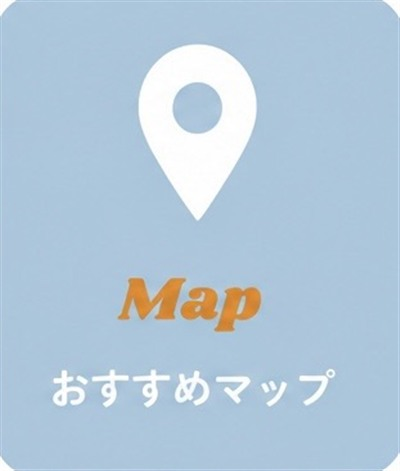
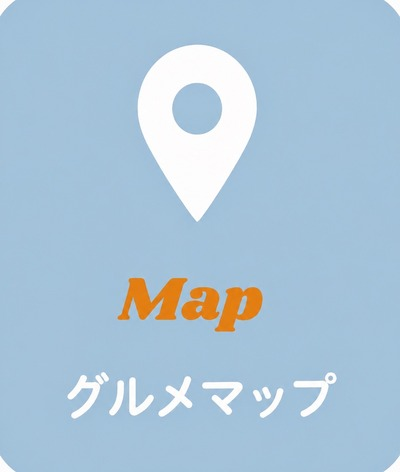
Add files via upload

diff --git a/js/data.js b/js/data.js
@@ -59,9 +59,9 @@ const GROOM_PROFILE = {
   photo: "assets/img/profile/groom.jpg",
   stats: [
     { label: "BIRTHDAY", value: "1994.3.27" },
-    { label: "BIRTHPLACE", value: "岐阜県" },
+    { label: "BIRTHPLACE", value: "岐阜県" }, // 2026-08-18 確定（生い立ち文の「愛知県にて誕生」とは別。生まれ＝愛知／出身＝岐阜）
     { label: "BLOOD TYPE", value: "B" }, // 二人とも同じ血液型とのこと
-    { label: "MBTI", value: "INFP-A（仲介者）" }, // ※要再確認
+    { label: "MBTI", value: "INFP-A（仲介者）" }, // 2026-08-18 確定
     { label: "WORK", value: "株式会社不二越" },
     { label: "HOBBY", value: "ゴルフ キャンプ 旅行" },
     { label: "FAVORITE FOOD", value: "お寿司 うなぎ 梅 トマト" },
@@ -401,7 +401,7 @@ const NAV_ITEMS = [
   { id: "seating", en: "Seating", jp: "お座席", icon: "assets/img/nav/nav-seating.jpg?v=20260818a", btn: { en1: "Seating", jp: "席次表" } },
   { id: "our-history", en: "Memory", jp: "ふたりの思い出", icon: "assets/img/nav/nav-our-history.jpg?v=20260818a", btn: { en1: "Memory", jp: "ふたりの思い出" } },
   { id: "qa", en: "Q&amp;A", jp: "ふたりに質問", icon: "assets/img/nav/nav-qa.jpg?v=20260818a", btn: { en1: "Q&amp;A", jp: "ふたりに質問" } },
-  { id: "map", en: "Map", jp: "おすすめマップ", icon: "assets/img/nav/nav-map.jpg?v=20260818a", btn: { en1: "Map", jp: "おすすめマップ" } },
+  { id: "map", en: "Map", jp: "グルメマップ", icon: "assets/img/nav/nav-map.jpg?v=20260818e", btn: { en1: "Map", jp: "グルメマップ" } },
   { id: "album", en: "Photo", jp: "アルバム", icon: "assets/img/nav/nav-album.jpg?v=20260818a", btn: { en1: "Photo", jp: "アルバム" } },
 ];
 
@@ -494,8 +494,8 @@ const ALBUM_GROUPS = [
 // ---------- おすすめマップ（新郎新婦の思い出の場所） ----------
 // タイトル下に表示する説明文（1要素＝1行）
 const MAP_INTRO = [
-  "ふたりが実際に訪れた 思い出のおすすめスポットをご紹介します",
-  "富山にお越しの際は ぜひ立ち寄ってみてください",
+  "新郎新婦がおすすめする富山のグルメマップです",
+  "富山にお越しの際はぜひ行ってみてください！",
 ];
 
 // address・gmap・web・instagram は 2026-08-18 に新郎新婦からいただいた情報。

diff --git a/js/app.js b/js/app.js
@@ -530,25 +530,27 @@
   // お店の写真
   // 写真が未登録のときは何も表示しない（「お写真1〜3」のグレー枠は 2026-08-18 に撤去）。
   // 1枚だけのときは地図のすぐ下に大きく1枚、2枚以上のときは従来どおり横に並べる。
+  // 2026-08-18: グルメマップの写真は「タップしても何も起こらない」仕様に変更。
+  //   ボタンではなく div で出し、data-spot-photo も付けない（拡大表示を呼ばない）。
   function buildSpotPhotosHtml(spot, spotIndex) {
     const photos = spot.photos || [];
     if (photos.length === 0) return "";
     if (photos.length === 1) {
       const p = photos[0];
       return (
-        '<button type="button" class="map-photo-single" data-spot-photo="' + spotIndex + '::0">' +
+        '<div class="map-photo-single">' +
         '<img src="' + p.src + '" alt="' + (p.caption || spot.name) + '">' +
-        "</button>"
+        "</div>"
       );
     }
     return (
       '<div class="map-desc-photos">' +
       photos
         .map(
-          (p, pi) =>
-            '<button type="button" class="map-photo-thumb" data-spot-photo="' + spotIndex + "::" + pi + '">' +
+          (p) =>
+            '<div class="map-photo-thumb">' +
             '<img src="' + p.src + '" alt="' + (p.caption || spot.name) + '">' +
-            "</button>"
+            "</div>"
         )
         .join("") +
       "</div>"
@@ -1012,12 +1014,8 @@
       openAlbumGroupModal(Number(parts[0]), Number(parts[1]));
       return;
     }
-    const photoThumb = e.target.closest("[data-spot-photo]");
-    if (photoThumb) {
-      const parts = photoThumb.dataset.spotPhoto.split("::");
-      openPhotoModal(Number(parts[0]), Number(parts[1]));
-      return;
-    }
+    // 2026-08-18: グルメマップの写真は拡大しない仕様になったため、この処理は無効化。
+    // （写真側に data-spot-photo を付けていないので、そもそもここには入らない）
     const spotBtn = e.target.closest(".map-spot-btn[data-spot]");
     if (spotBtn) {
       selectMapSpot(Number(spotBtn.dataset.spot));

diff --git a/css/style.css b/css/style.css
@@ -701,11 +701,12 @@ body {
    2026-08-18 追加調整:
      ・画像は白フチを切り落とした版に差し替え済み。残る四隅の白は角丸で切り抜く
      ・object-fit: cover にして、枠の中に地の色が覗かないようにする
-     ・縁取りは BACK ボタンと同じ rgba(255,255,255,0.55) */
+     ・縁取りは BACK ボタンと同じ色 rgba(255,255,255,0.55)。
+       2026-08-18 太さを 1px → 3px に変更（もう少し太く、というご要望） */
 .nav-square.has-icon {
   aspect-ratio: 400 / 478; /* いただいた画像の縦横比に合わせる（元は正方形） */
   background: none;
-  border: 1px solid rgba(255, 255, 255, 0.55);
+  border: 3px solid rgba(255, 255, 255, 0.55);
   box-shadow: none;
   padding: 0;
   border-radius: 12%;
@@ -1569,7 +1570,10 @@ video.photo-modal-img {
   border-radius: 10px;
   overflow: hidden;
   background: var(--white);
-  cursor: pointer;
+  /* 2026-08-18: タップしても何も起こらない仕様にしたので、指カーソルとタップ反応を消す */
+  cursor: default;
+  pointer-events: none;
+  -webkit-tap-highlight-color: transparent;
   aspect-ratio: 4 / 3;
 }
 
@@ -1596,7 +1600,10 @@ video.photo-modal-img {
   aspect-ratio: 1;
   border-radius: 8px;
   overflow: hidden;
-  cursor: pointer;
+  /* 2026-08-18: タップしても何も起こらない仕様にしたので、指カーソルとタップ反応を消す */
+  cursor: default;
+  pointer-events: none;
+  -webkit-tap-highlight-color: transparent;
 }
 
 .map-photo-thumb img {

diff --git a/index.html b/index.html
@@ -9,7 +9,7 @@
 <link href="https://fonts.googleapis.com/css2?family=Shrikhand&family=Zen+Maru+Gothic:wght@400;500;700&family=Yusei+Magic&display=swap" rel="stylesheet">
 <link rel="stylesheet" href="https://unpkg.com/leaflet@1.9.4/dist/leaflet.css">
 <!-- ?v= の数字は、更新したときにブラウザが古い表示を出さないための目印です（日付＋連番） -->
-<link rel="stylesheet" href="css/style.css?v=20260818c">
+<link rel="stylesheet" href="css/style.css?v=20260818h">
 </head>
 <body>
 
@@ -149,7 +149,6 @@
     <p class="section-eyebrow">06</p>
     <h2 class="section-title" data-title-for="menu"></h2>
     <div id="food-list" class="course-list-flat"></div>
-    <p class="section-caption">※アレルギー等ございましたら受付までお申し付けください</p>
 
     <nav class="profile-nav-grid" id="nav-grid-menu"></nav>
   </section>
@@ -221,7 +220,7 @@
 </div>
 
 <script src="https://unpkg.com/leaflet@1.9.4/dist/leaflet.js"></script>
-<script src="js/data.js?v=20260818c"></script>
-<script src="js/app.js?v=20260818c"></script>
+<script src="js/data.js?v=20260818h"></script>
+<script src="js/app.js?v=20260818h"></script>
 </body>
 </html>
